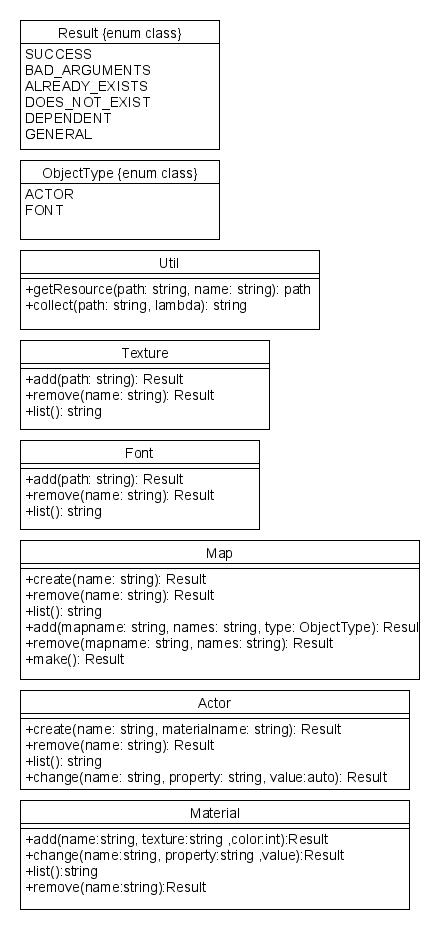
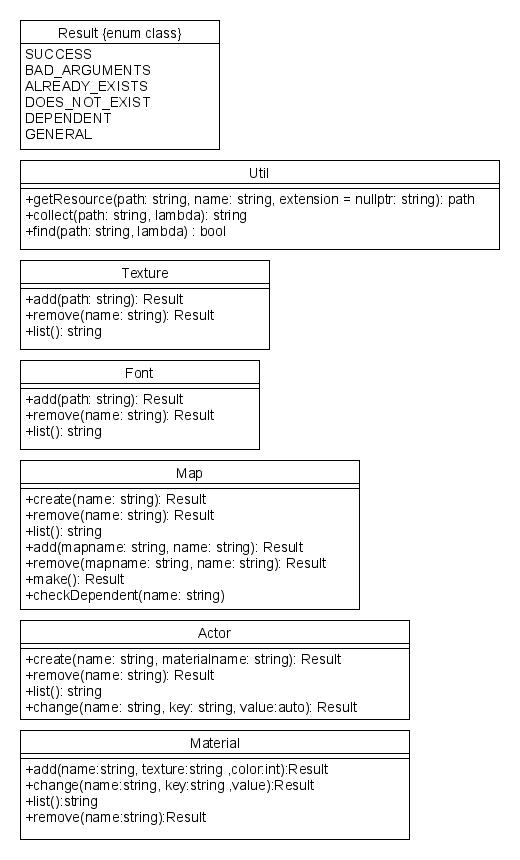
Proposel update

diff --git a/proposal/proposal-01.html b/proposal/proposal-01.html
@@ -67,6 +67,10 @@
 <p>Status: Adopted</p>
 <h3 id="implementation-details">Implementation details</h3>
 <p><img src="proposal-01-4.png" alt="Details"></p>
+<h3 id="stage-2">Stage 2</h3>
+<p>The next stage is to clean up and add all the dependency checks.
+Afterwards we have to face the shader module implementation, stated as following.</p>
+<p><img src="proposal-01-5.png" alt="Details"></p>
 
     </body>
     </html>

diff --git a/proposal/proposal-01.md b/proposal/proposal-01.md
@@ -61,3 +61,10 @@ Status: Adopted
 ### Implementation details
 
 ![Details](proposal-01-4.png)
+
+### Stage 2
+
+The next stage is to clean up and add all the dependency checks.
+Afterwards we have to face the shader module implementation, stated as following.
+
+![Details](proposal-01-5.png)
